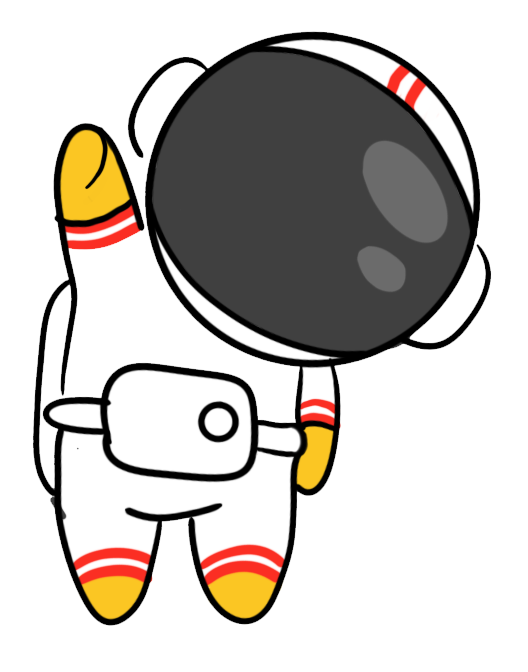
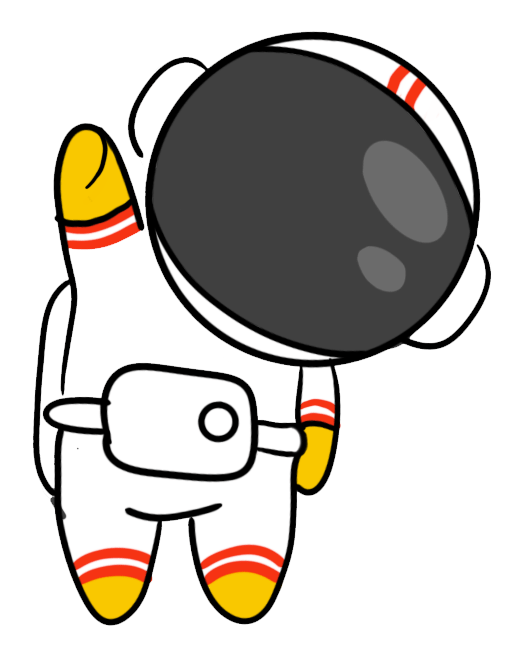
Remove loader + upload lighter images

diff --git a/src/main.js b/src/main.js
@@ -1,46 +1,42 @@
-import Vue from 'vue';
-import App from './App';
-import AboutPage from './components/About/AboutPage';
-import HomePage from './components/Homepage/Homepage';
-import MySkillsPage from './components/MySkills/MySkillsPage';
-import VueRouter from 'vue-router';
+import Vue from "vue";
+import App from "./App";
+import AboutPage from "./components/About/AboutPage";
+import HomePage from "./components/Homepage/Homepage";
+import MySkillsPage from "./components/MySkills/MySkillsPage";
+import VueRouter from "vue-router";
 
-
-Vue.use(VueRouter)
+Vue.use(VueRouter);
 Vue.config.productionTip = false;
-const EventBus = new Vue();
-export default EventBus;
 
 const routes = [
-  { path: '*', redirect: '/home' },
+  { path: "*", redirect: "/home" },
   {
-    path: '/',
+    path: "/",
     component: App,
-    redirect : '/home',
+    redirect: "/home",
     children: [
       {
-        path: 'about',
-        component: AboutPage
+        path: "about",
+        component: AboutPage,
       },
       {
-        path: 'skills',
-        component: MySkillsPage
+        path: "skills",
+        component: MySkillsPage,
       },
       {
-        path: 'home',
-        component: HomePage
+        path: "home",
+        component: HomePage,
       },
-    ]
-  }
-
-]
+    ],
+  },
+];
 const router = new VueRouter({
   routes, // raccourci pour `routes: routes`
-  mode: 'hash',
-})
+  mode: "hash",
+});
 
 new Vue({
   router,
-  
-  render: h => h(App),
-}).$mount('#app')
+
+  render: (h) => h(App),
+}).$mount("#app");

diff --git a/src/components/Homepage/Homepage.vue b/src/components/Homepage/Homepage.vue
@@ -50,7 +50,6 @@ import StarSky from "../Common/StarSky";
 import AsteroidCrossing from "./AsteroidCrossing";
 import gsap, { TweenMax } from "gsap";
 import Parallax from "parallax-js";
-import EventBus from "../../main";
 
 export default {
   name: "HomePage",
@@ -58,18 +57,11 @@ export default {
     StarSky,
     AsteroidCrossing,
   },
-  created() {
-    EventBus.$emit("displayLoader", true);
-  },
   mounted() {
     this.asteroidMove();
     this.planetMove();
     let homeParallax = document.getElementById("home-parallax");
     new Parallax(homeParallax);
-
-    setTimeout(() => {
-      EventBus.$emit("displayLoader", false);
-    }, 1500);
   },
   beforeDestroy() {
     TweenMax.killTweensOf("*");

diff --git a/src/App.vue b/src/App.vue
@@ -1,6 +1,5 @@
 <template>
   <div id="app">
-    <Loader v-if="displayLoader"/>
     <Navbar class="navbar" />
     <div class="body">
       <transition name="fade">
@@ -12,24 +11,16 @@
 
 <script>
 import Navbar from "./Navbar";
-import Loader from "./components/Common/Loader";
-import EventBus from "./main.js";
 
 export default {
   name: "App",
   components: {
     Navbar,
-    Loader,
   },
   data() {
     return {
       displayLoader: false,
     };
-  },
-  created() {
-    EventBus.$on("displayLoader", (data) => {
-      this.displayLoader = data;
-    });
   },
 };
 </script>
